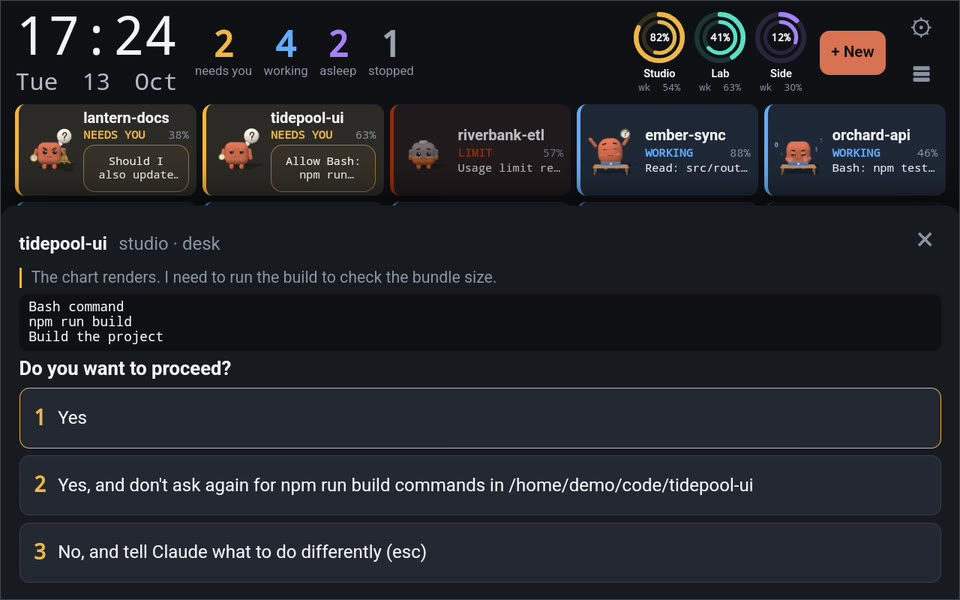
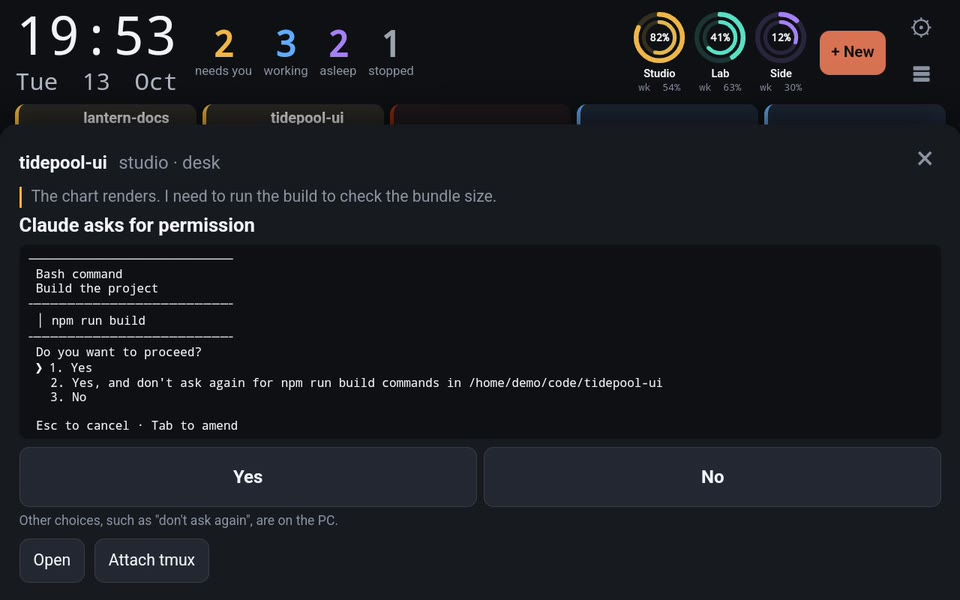
README: answer GIF shows the current sheet; release test independent of private docs

diff --git a/test/release.test.ts b/test/release.test.ts
@@ -1,5 +1,5 @@
 import { describe, it, expect } from 'vitest';
-import { readFileSync } from 'node:fs';
+import { existsSync, readFileSync } from 'node:fs';
 import { join } from 'node:path';
 import { fileURLToPath } from 'node:url';
 import { z } from 'zod';
@@ -94,7 +94,8 @@ describe('README.md', () => {
     // Option 1 of a real 2.1.296 plan approval approves the plan AND switches the session to auto mode.
     const plan = read('test/fixtures/panes/real-2.1.296/plan-approval.txt');
     expect(plan).toMatch(/❯ 1\. Yes, and use auto mode/);
-    for (const p of ['README.md', 'CHANGELOG.md', 'docs/plans/KNOWN-ISSUES.md', 'docs/plans/DECISIONS.md']) {
+    // The plan docs stay in the private repository; the published tree has only README and CHANGELOG.
+    for (const p of ['README.md', 'CHANGELOG.md', 'docs/plans/KNOWN-ISSUES.md', 'docs/plans/DECISIONS.md'].filter((p) => existsSync(join(root, p)))) {
       const doc = read(p).replace(/\s+/g, ' ');
       expect(doc, p).toContain('Yes, and use auto mode');
       expect(doc, p).toMatch(/permission mode/);

diff --git a/src/actions/answer.ts b/src/actions/answer.ts
@@ -355,7 +355,7 @@ export async function run(d: AnswerDeps, t: Target, script: string, check: { sha
  *   3. A reply is a bracketed paste (SEND_PASTE_SCRIPT), never keystrokes, so a prompt drawn in the instant between the
  *      script's own check and its paste reads a paste, which picks nothing; its Enter goes only to the input box read
  *      after the paste, parsed here as one, by the same hash check (pressEnter).
- * One gap remains and is accepted (decided 2026-10-13; docs/plans/KNOWN-ISSUES.md #32): a reply's Enter
+ * One gap remains and is accepted (decided 2026-10-13; described in the README's answer sheet section): a reply's Enter
  * sent while Claude works can reach a permission prompt Claude mounts in the same few tens of milliseconds (Ink focuses
  * the new menu before drawing it, so no check sees it), and Enter picks its highlighted option. Busy replies keep Claude
  * Code's own mid-turn queue rather than being refused. A permission prompt is only ever answered by a tap: 1 or Escape.

diff --git a/README.md b/README.md
@@ -73,9 +73,9 @@ L1, a waving character in each account's colour, marks the accounts in **+ New**
 <td width="50%">
 <picture>
   <source srcset="docs/media/answer.gif" type="image/gif">
-  <img alt="Answering from the tablet: tapping a waiting session's question opens its permission prompt, and tapping Yes sends the answer and the session goes back to work." src="docs/media/answer.poster.jpg" width="100%">
+  <img alt="Answering from the tablet: tapping a waiting session's question opens the answer sheet, headed Claude asks for permission, with the prompt exactly as the terminal draws it and two buttons, Yes and No. Tapping Yes sends the answer and the session goes back to work." src="docs/media/answer.poster.jpg" width="100%">
 </picture>
-<br><b>Answer a waiting prompt.</b> Tap the question, then a numbered choice.
+<br><b>Answer a waiting prompt.</b> Tap the question, then Yes or No.
 </td>
 <td width="50%">
 <img alt="Starting a session from the tablet: pick an account, pick a repository, then choose the model, effort and permission mode. The model list is open, showing the newest Opus, Sonnet, Haiku and Fable, then More; the mode is Auto, preselected as the default." src="docs/media/launcher.png" width="100%">
